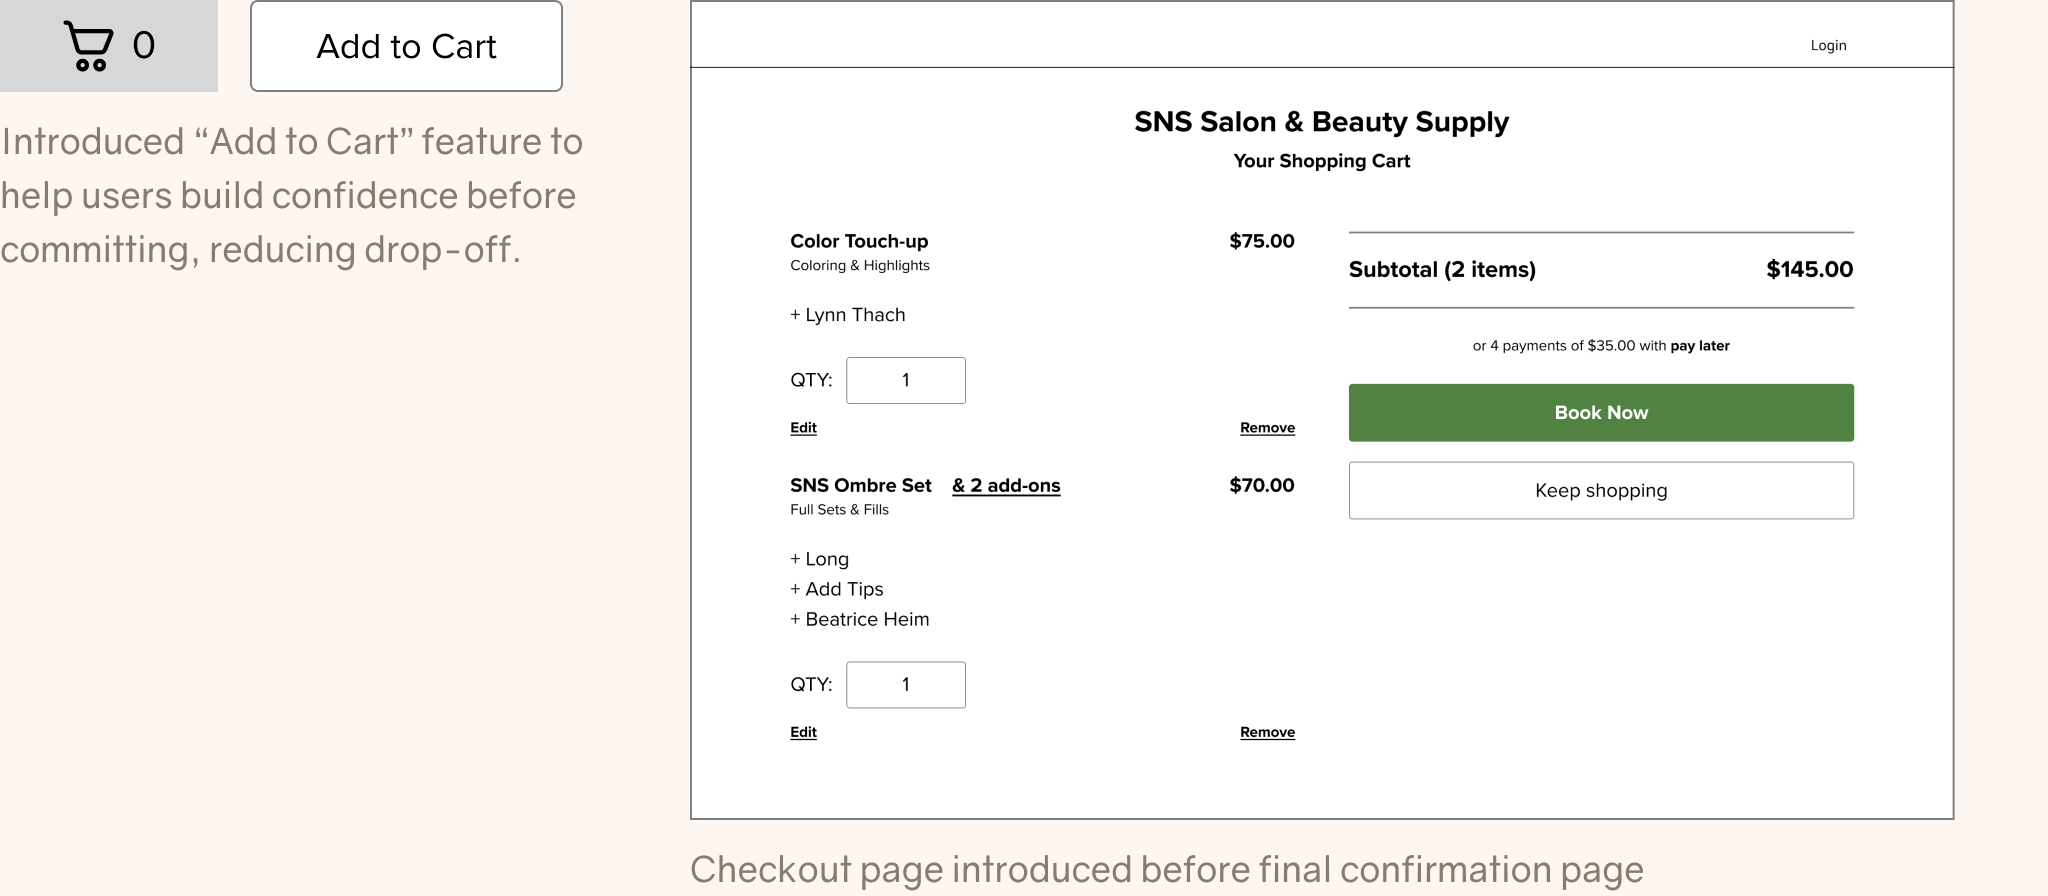
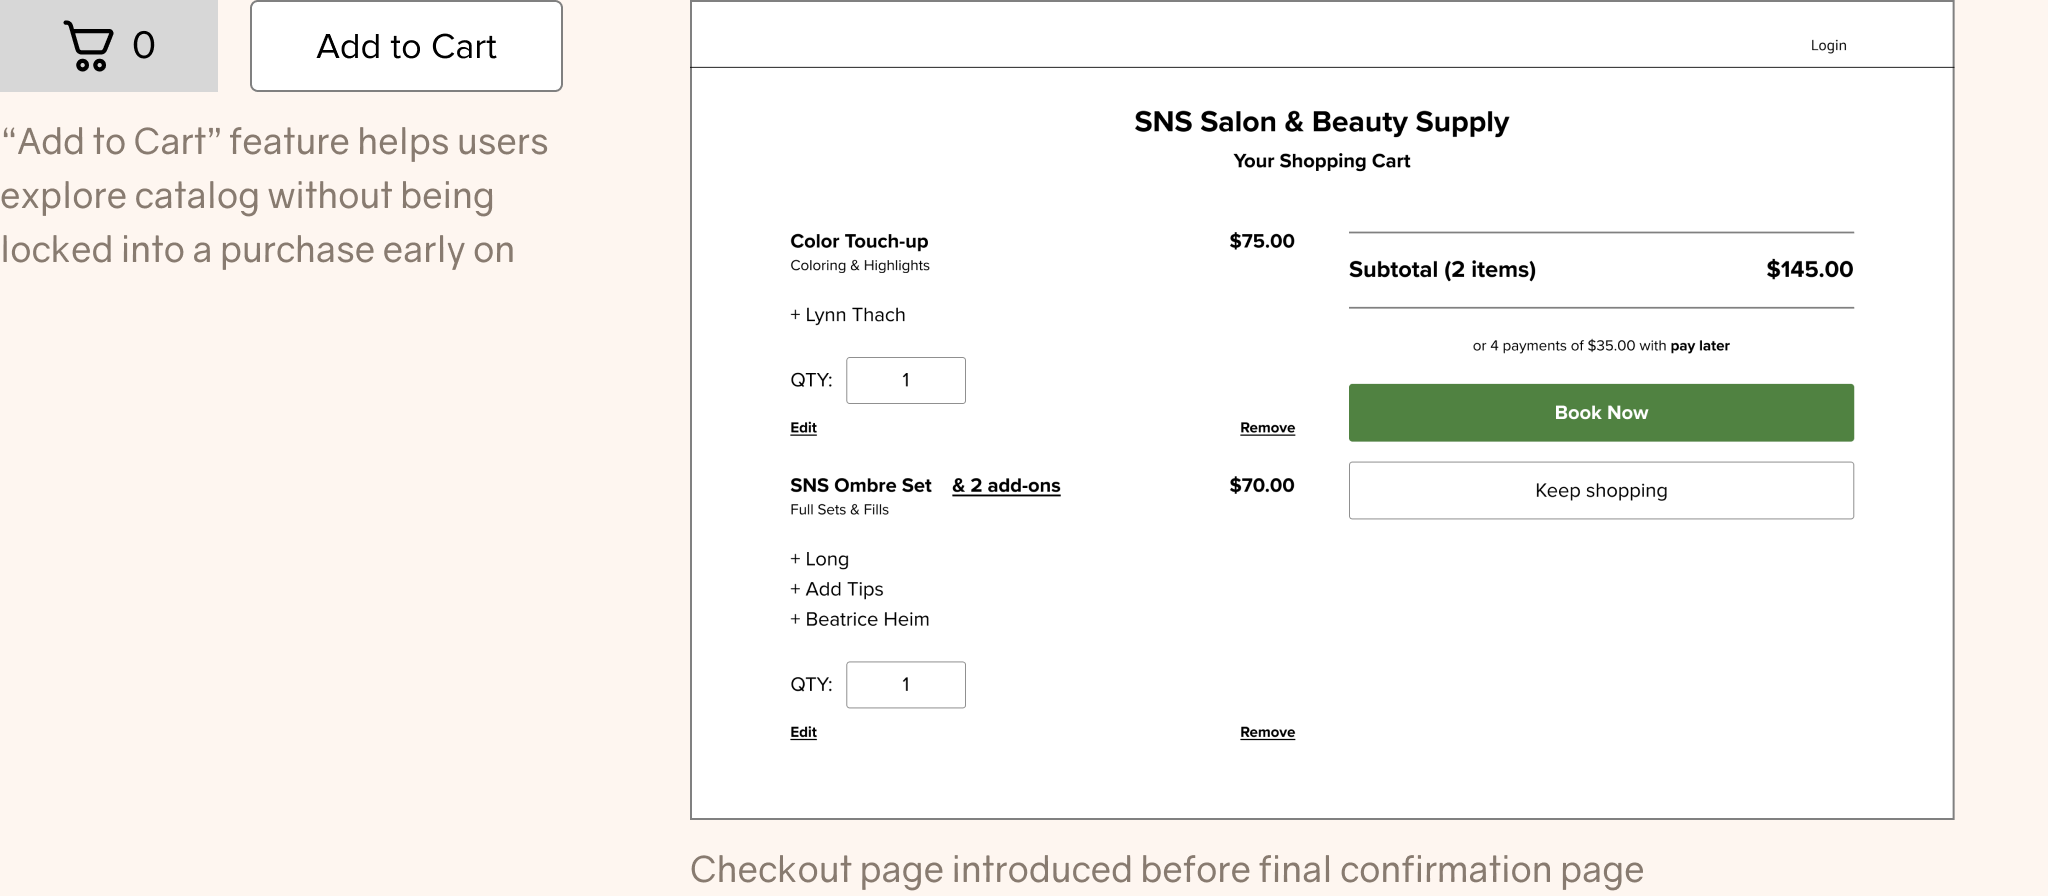
more progress

Changed region(s): [[0.0, 0.125, 0.2812, 0.3125]]

diff --git a/case-studies/test.html b/case-studies/test.html
@@ -126,7 +126,7 @@
                 <article>
                     <h2>The revamped SNS Salon & Beauty Supply website</h2>
                     <p>
-                        A complete redesign of SNS Salon's website that better speaks to their expertise with compelling storytelling and fixes major usability issues by restructuring information architecture and page layouts.
+                        I worked with the salon owner to redesign the website with the aim of clarifying the booking experience and better showcasing the quality of services. The work I did helped <b>simplify the booking experience by 55.6%</b>, improved customer confidence in navigating their services, which tentatively would <b>reduce booking drop-off</b>.
                     </p>
                 </article>
                 
@@ -165,18 +165,6 @@
                             </p>
                         </div>
                         <img src="https://media.dave-vo.com/file/dvfolio/sns/deliverables-booking.gif">
-                    </div>
-                </article>
-
-                <article>
-                    <p class="subtitle">Outcomes</p>
-                    <h3>Major project wins</h3><br>
-                    <div class="insight gain-point">
-                        <span>✅</span>
-                        <div>
-                            <p><b>Streamlined service navigation by 55.6%</b></p>
-                            <p>The booking experience left users confused due to excessive duplicates and variants. Standardizing service cards with existing Vagaro components led to faster booking.</p>
-                        </div>
                     </div>
                 </article>
             </section>
@@ -331,49 +319,63 @@
 
                     <hr>
                     <p>
-                        The hero was redesigned to establish credibility before asking users to book. Past work imagery is shown immediately, while promotions are supported through navigation banners rather than taking up the page.
-                    </p>
-                    <p>
-                        To encourage exploration over premature booking, primary calls-to-action were redirected toward services and staff profiles—allowing users to understand offerings and expertise before committing.
+                        The hero was redesigned to build up users’ trust before asking them to book. Quality client work is shown immediately, while promotions are supported through navigation instead of dominating the page, and CTAs guide users toward services and staff profiles so they can explore before committing.
                     </p>
                 </article>
 
-                <article>
+                <article class="extra-space"> <!-- Services -->
                     <p class="subtitle">Services</p>
                     <h3>A catalog made for easy vetting and decision-making</h3>
                     <br>
+
                     <picture>
                         <img loading="lazy" alt="test" data-src="/images/hifi-before-after-services.png" class="lazyload">
                     </picture>
-                    <hr>
-                </article>
 
-                <article>
                     <picture>
                         <img loading="lazy" alt="test" data-src="/images/hifi-after-gallery.png" class="lazyload">
                     </picture>
-                    <hr>
-                    <p>
-                        The services experience was redesigned to support comparison and faster decision-making. Services were grouped under clear subheaders and displayed as structured web elements rather than images, improving readability, consistency, and mobile usability.
-                    </p>
-                    <p>
-                        To support a “show, not tell” approach, visual examples and links to the Gallery were introduced alongside service descriptions. Additional CTAs for booking and gift cards, service suggestions, and color-blocked categories helped users navigate options without feeling overwhelmed.
-                    </p>
                 </article>
 
                 <article class="extra-space">
+                    <p class="subtitle">Iteration</p>
+                    <h3>Structuring for faster discovery</h3>
+                    <br>
+
                     <picture>
                         <img loading="lazy" alt="test" data-src="/images/hifi-iteration-services.png" class="lazyload">
                     </picture>
 
                     <hr>
-                    <p>Explanation here...</p>
+                    <p>
+                        Early iterations tried to make each service clearer by adding more detail, but user testing showed that this still made the page feel dense and hard to navigate. The final design organized services into clear categories with color blocking, so users could quickly jump to what they were looking for, while curated salon suggestions preserved visual context without overwhelming the page.
+                    </p>
                 </article>
 
-                <article>
+                <article class="extra-space"> <!-- Booking -->
                     <p class="subtitle">Booking</p>
                     <h3>Simplified booking navigation by 55.6%</h3>
                     <br>
+                    <picture>
+                        <img loading="lazy" alt="test" data-src="/images/hifi-before-after-booking-fullpage.png" class="lazyload">
+                    </picture>
+
+                    <hr>
+                    <p>
+                        The booking flow was simplified by consolidating services into fewer, clearer dropdowns and standardizing service cards with images, prices, and descriptions. Add-to-Cart and add-on features allowed users to explore and adjust their selections without feeling locked into a decision.
+                    </p>
+                </article>
+
+                <article>
+                    <p class="subtitle">Constraints</p>
+                    <h3>Working within a 3rd party design system</h3>
+                    <p>
+                        Since the salon’s booking is done through Vagaro, we proposed changes that can realistically be implemented within that platform. By reviewing other businesses’ Vagaro setups and referencing their official documentation, we focused on improving structure and clarity using available components rather than proposing custom features that couldn’t ship.
+                    </p>
+                    <hr>
+                </article>
+
+                <article>
                     <picture>
                         <img loading="lazy" alt="test" data-src="/images/hifi-before-booking-components.png" class="lazyload">
                     </picture>
@@ -384,24 +386,14 @@
 
                 <article>
                     <picture>
-                        <img loading="lazy" alt="test" data-src="/images/hifi-after-booking-servicecards.png" class="lazyload">
-                    </picture>
-                </article>
-
-                <article>
-                    <picture>
                         <img loading="lazy" alt="test" data-src="/images/hifi-after-booking-addcart.png" class="lazyload">
                     </picture>
                 </article>
 
                 <article>
-                    <hr>
-                    <p>
-                        The booking flow was simplified by consolidating related services into a smaller set of curated dropdowns. Service cards were standardized with images, pricing, and clear descriptions to make differences easier to understand at a glance.
-                    </p>
-                    <p>
-                        To encourage exploration without commitment, Vagaro’s Add to Cart and add-on features were introduced, allowing users to adjust selections and reduce clutter from redundant service variants.
-                    </p>
+                    <picture>
+                        <img loading="lazy" alt="test" data-src="/images/hifi-after-booking-servicecards.png" class="lazyload">
+                    </picture>
                 </article>
             </section>
 
